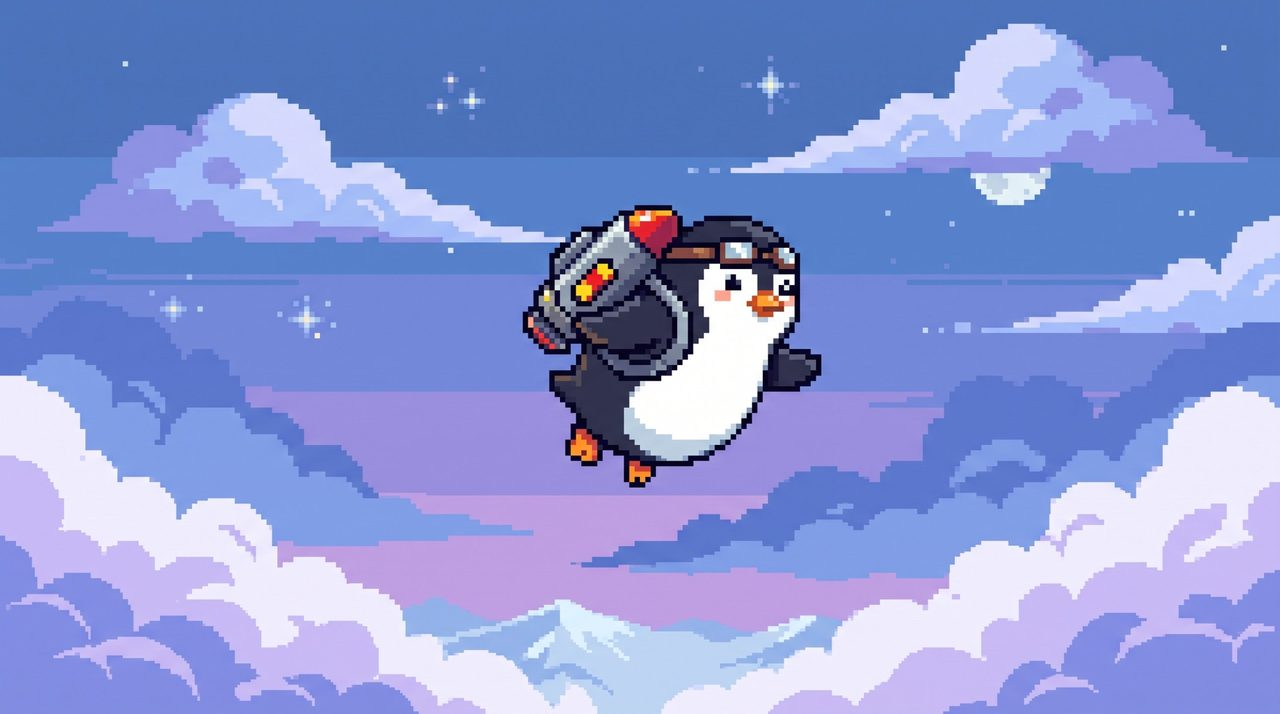
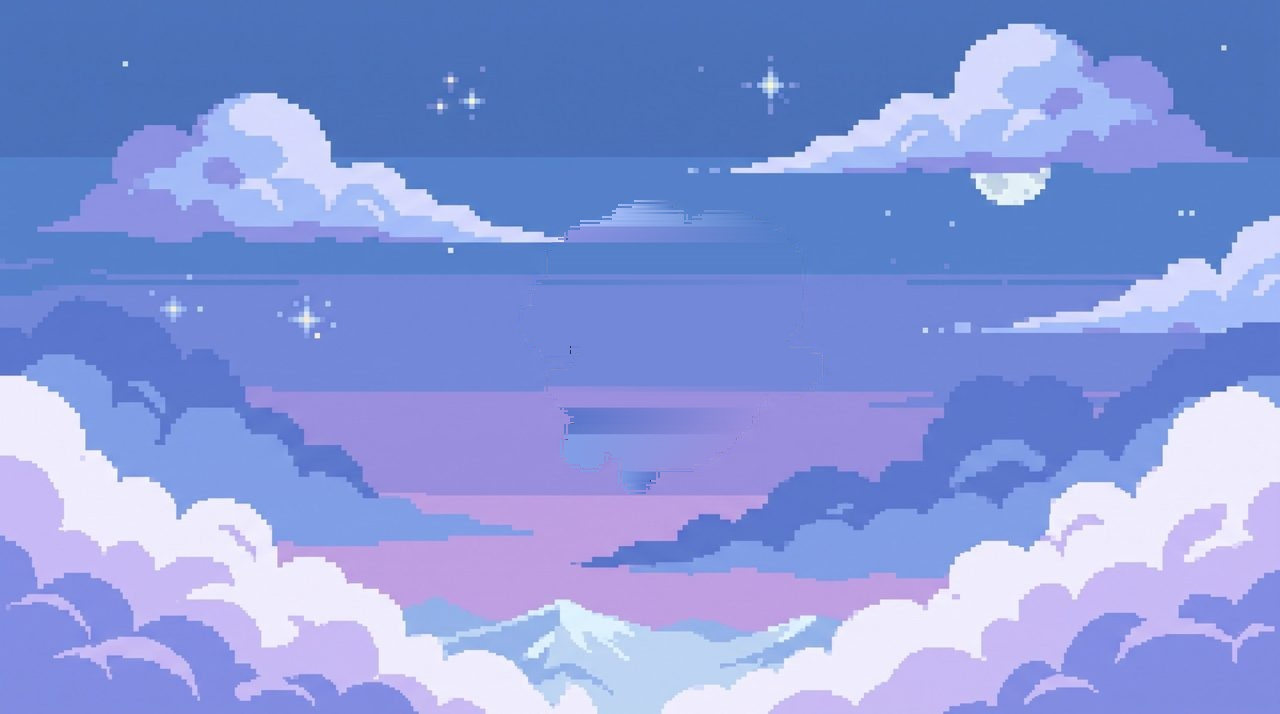
update homepage

Changed region(s): [[0.4062, 0.2773, 0.6562, 0.6779]]

diff --git a/game.js b/game.js
@@ -75,11 +75,11 @@ document.getElementById('btn-save').addEventListener('click',async ()=>{
  if(!n)return playerNameInput.focus();
  await lbPost(n,score);
  hideNameModal();
- goToTitle();
+ overT=0; // show the Game Over screen and wait for tap
 });
 document.getElementById('btn-skip').addEventListener('click',()=>{
  hideNameModal();
- goToTitle();
+ overT=0; // show the Game Over screen and wait for tap
 });
 playerNameInput.addEventListener('keydown',e=>{
  if(e.key==='Enter'){document.getElementById('btn-save').click();e.preventDefault();}
@@ -96,23 +96,58 @@ function updateTrophyVisibility(){
  else trophyBtn.classList.add('hidden');
 }
 // ---- Title screen penguin animation ----
-// The penguin bobs up/down and periodically fires the jetpack on the title screen.
-let titlePen={y:0,vy:0,boostT:0,flapTimer:1.2};
-function initTitlePen(){titlePen={y:H/2,vy:0,boostT:0,flapTimer:1.2}}
-function updateTitlePen(dt){
- titlePen.flapTimer-=dt;
- if(titlePen.flapTimer<=0){titlePen.vy=FLAP;titlePen.boostT=.25;titlePen.flapTimer=1.4+Math.random()*.8}
- titlePen.boostT=Math.max(0,titlePen.boostT-dt);
- titlePen.vy+=G*dt;
- titlePen.y+=titlePen.vy*dt;
- if(titlePen.y<H*.2){titlePen.y=H*.2;titlePen.vy=Math.abs(titlePen.vy)*.3}
- if(titlePen.y>H*.8){titlePen.y=H*.8;titlePen.vy=-Math.abs(titlePen.vy)*.3}
+// The big centerpiece penguin floats/shakes in place and fires its jetpack on & off
+let titleTimer = 0;
+function initTitlePen() {
+ titleTimer = 0;
 }
-function drawTitlePen(){
- ctx.save();ctx.translate(portrait?W*.25:230,titlePen.y);
- const rot=Math.max(-.45,Math.min(1.1,titlePen.vy/700));ctx.rotate(rot);
- const img=titlePen.boostT>0?IM.boost:IM.idle;
- ctx.drawImage(img,-PX*S,-PY*S,AS.sw*S,AS.sh*S);ctx.restore();
+function updateTitlePen(dt) {
+ titleTimer += dt;
+}
+function drawTitlePen() {
+ // The title background is 1280x714, mapped to (W, H) via cover()
+ const imgW = IM.title.width, imgH = IM.title.height;
+ const scale = portrait ? (W / (imgW * 0.5)) : Math.max(W / imgW, H / imgH);
+ 
+ // In original title_bg (1280x714), the penguin was at x: 276, y: 198 (size 564x380, center approx x: 558, y: 388)
+ const origCenterX = 558;
+ const origCenterY = 388;
+ 
+ // Screen coordinates based on cover() mapping
+ let screenX, screenY;
+ if (portrait) {
+  const sw = imgW * 0.5, sx = (imgW - sw) / 2;
+  const dh = W * imgH / sw;
+  const offsetY = (H - dh) / 2;
+  screenX = (origCenterX - sx) * (W / sw);
+  screenY = offsetY + origCenterY * (dh / imgH);
+ } else {
+  const sw = W / scale, sh = H / scale;
+  const sx = (imgW - sw) / 2, sy = (imgH - sh) / 2;
+  screenX = (origCenterX - sx) * scale;
+  screenY = (origCenterY - sy) * scale;
+ }
+
+ // Jetpack activation alternates: 1.4s boosting, 1.2s idle
+ const cycle = titleTimer % 2.6;
+ const isBoosting = cycle < 1.4;
+
+ // Floating bob + subtle vibration/shake when jetpack is active
+ const bobY = Math.sin(titleTimer * 2.8) * 8;
+ const bobX = Math.cos(titleTimer * 1.4) * 3;
+ const shakeX = isBoosting ? (Math.random() - 0.5) * 3.5 : (Math.random() - 0.5) * 0.8;
+ const shakeY = isBoosting ? (Math.random() - 0.5) * 3.5 : (Math.random() - 0.5) * 0.8;
+ const tilt = Math.sin(titleTimer * 2.2) * 0.04 + (isBoosting ? 0.03 : -0.02);
+
+ ctx.save();
+ ctx.translate(screenX + bobX + shakeX, screenY + bobY + shakeY);
+ ctx.rotate(tilt);
+
+ // Draw the big penguin matching the original 2x pixel size scaled to canvas
+ const penScale = scale * 2;
+ const img = isBoosting ? IM.boost : IM.idle;
+ ctx.drawImage(img, -PX * penScale, -PY * penScale, AS.sw * penScale, AS.sh * penScale);
+ ctx.restore();
 }
 function load(){return Promise.all(['idle','boost','cave','title','over'].map(k=>new Promise(r=>{const i=new Image();i.onload=()=>{IM[k]=i;r()};i.src=AS[k]})))}
 // Mobile browsers can suspend audio until a completed tap unlocks it.
@@ -168,7 +203,12 @@ function inPoly(px,py,p){let c=false;for(let i=0,j=p.length-1;i<p.length;j=i++){
 function hit(o){for(const top of [true,false]){const p=poly(o,top);if(inPoly(pen.x,pen.y,p))return true;for(let i=0;i<p.length;i++)if(segDist(pen.x,pen.y,p[i],p[(i+1)%p.length])<R)return true}return false}
 function flap(){
  if(state==='title'){reset();state='play';updateTrophyVisibility()}
- else if(state==='over')return; // name modal handles the transition
+ else if(state==='over'){
+  if(overT>.3 && nameModal.classList.contains('hidden')){
+   goToTitle();
+  }
+  return;
+ }
  else if(state==='dead')return;
  pen.vy=FLAP;boostT=.18;beep(520,.08)}
 function die(){state='dead';deadT=0;pen.vy=-200;beep(120,.35,'sawtooth',.07);if(score>best){best=score;try{sessionStorage.setItem('jp_best',best)}catch(e){}}}
@@ -226,7 +266,8 @@ function draw(){
   text(portrait?'TAP TO START':'TAP ANYWHERE TO PLAY',W/2,H-70,22);
   text('BEST '+best,W/2,H-30,14,'#a8dcff');return}
  if(state==='over'){cover(IM.over);ctx.fillStyle='rgba(4,8,36,.5)';ctx.fillRect(0,0,W,H);
-  text('GAME OVER',W/2,H/2-40,46,'#ff6b5a');text('SCORE '+score,W/2,H/2+20,26);return}
+  text('GAME OVER',W/2,110,46,'#ff6b5a');text('SCORE '+score,W/2,200,26);text('BEST '+best,W/2,248,20,'#ffd35a');
+  if(overT>.3&&nameModal.classList.contains('hidden'))text(portrait?'TAP TO CONTINUE':'PRESS SPACEBAR TO CONTINUE',W/2,H-60,18);return}
  drawBg();obs.forEach(drawObs);drawPen();
  text(String(score),W/2,90,80)}
 let last=performance.now();
